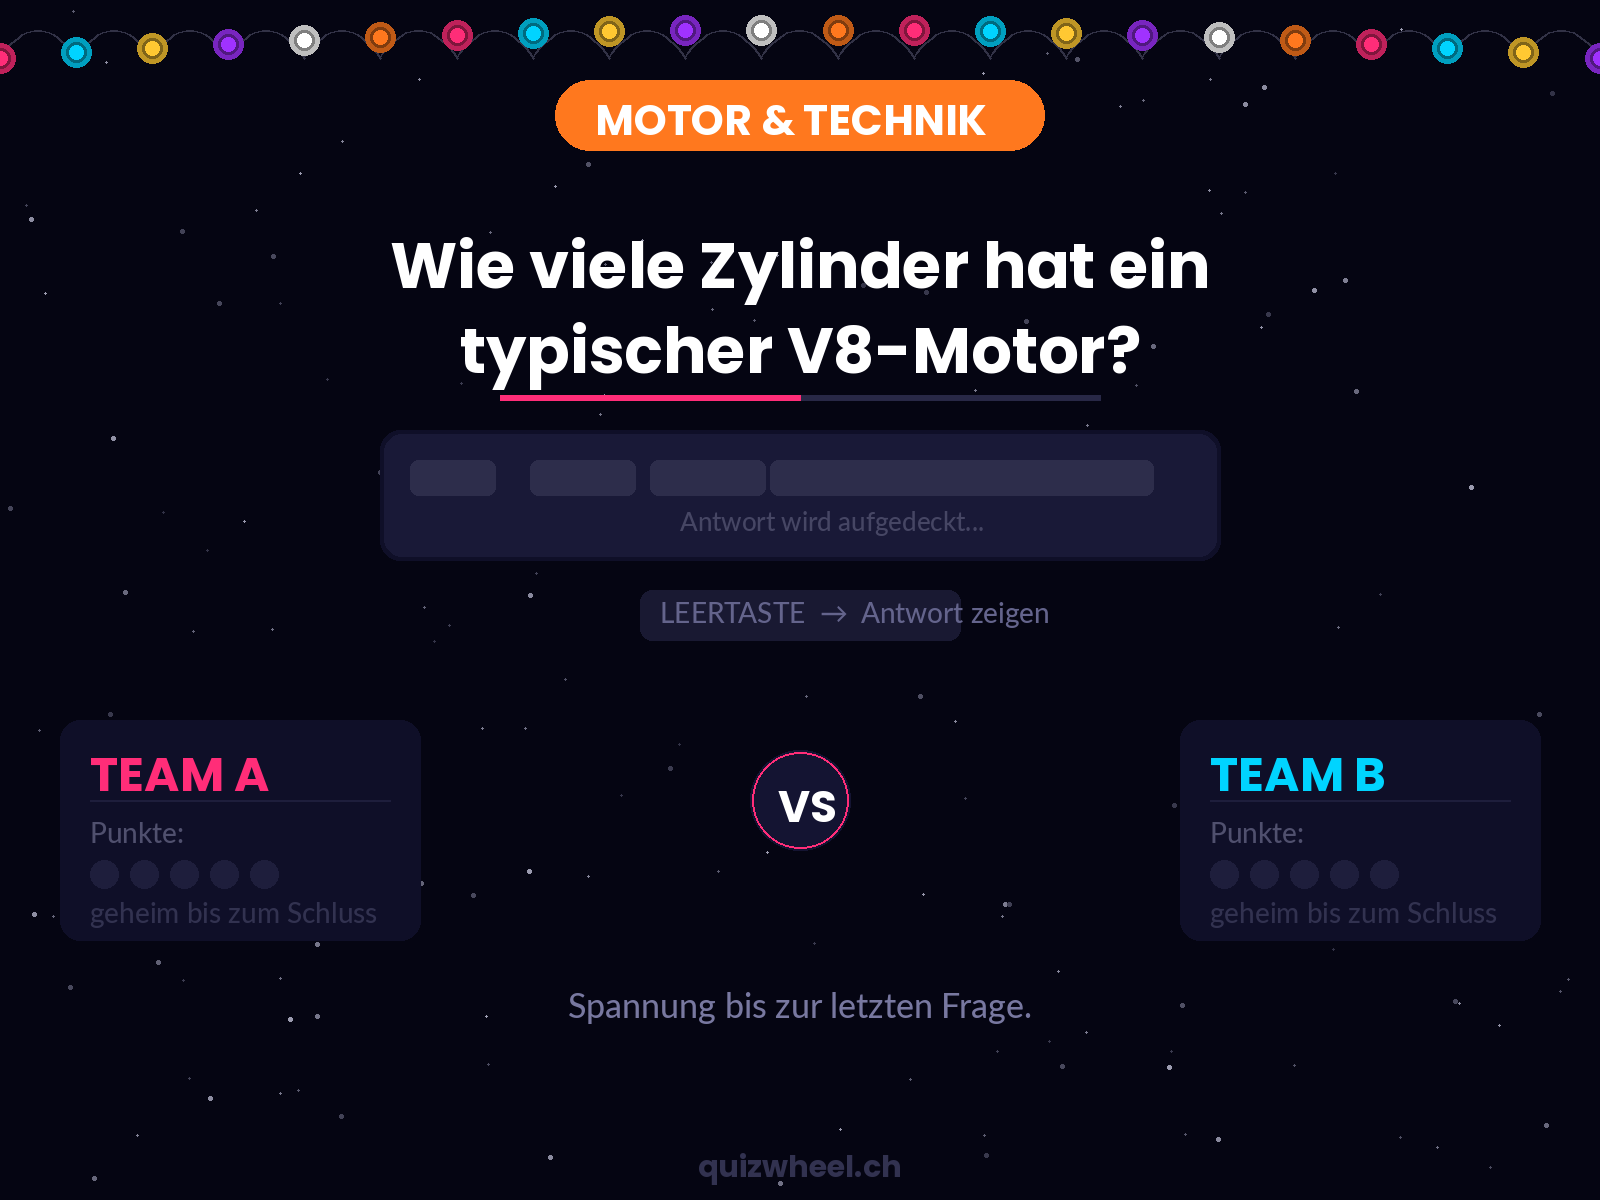
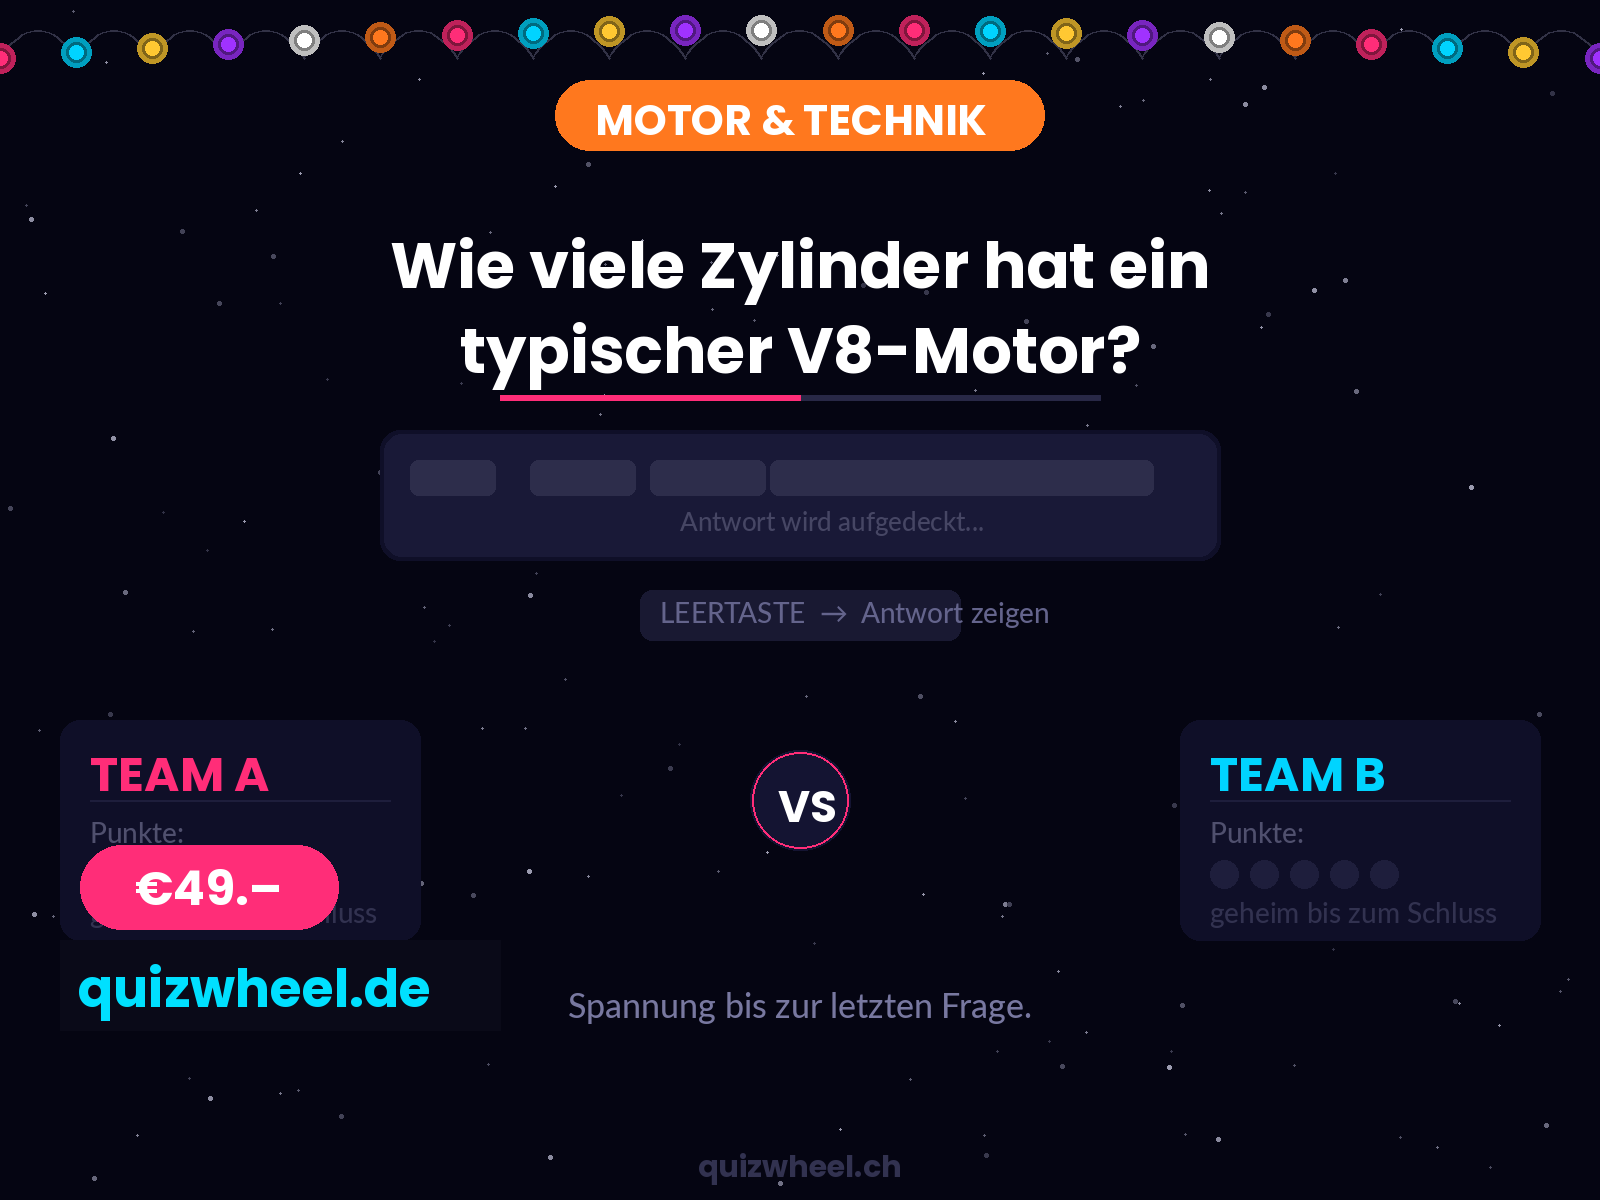
Stand 06.09.2026: Waehrungshinweis (Abrechnung in Euro), Free-Version, Mockups, og-image, robots.txt, .gitignore, package.json

Changed region(s): [[0.0312, 0.6783, 0.2812, 0.8633]]

diff --git a/QuizWheel_Free.html b/QuizWheel_Free.html
@@ -2828,27 +2828,59 @@ function restartQuiz() {
 }
 
 function shareQuizWheel(btn) {
-  const title  = (!_isDemo && setupData.quizTitle) ? setupData.quizTitle : null;
-  const text   = title
+  const title = (!_isDemo && setupData.quizTitle) ? setupData.quizTitle : null;
+  const text  = title
     ? `Wir haben heute «${title}» mit QuizWheel gespielt 🎡 — macht euren Event zur Spielshow: quizwheel.ch`
     : `Wir haben heute QuizWheel eingesetzt 🎡 — macht euren Event zur Spielshow: quizwheel.ch`;
-  const url    = 'https://www.quizwheel.ch';
+  const url  = 'https://www.quizwheel.ch';
+  const full = text + '\n' + url;
 
+  // Toggle: bereits offen → schliessen
+  const existing = document.getElementById('share-dropdown');
+  if (existing) { existing.remove(); return; }
+
+  const rect = btn.getBoundingClientRect();
+  const dd = document.createElement('div');
+  dd.id = 'share-dropdown';
+  dd.style.cssText = 'position:fixed;bottom:' + (window.innerHeight - rect.top + 8) + 'px;left:' + (rect.left + rect.width / 2) + 'px;transform:translateX(-50%);background:#0f0f26;border:1px solid #252550;border-radius:12px;overflow:hidden;z-index:10000;min-width:210px;box-shadow:0 8px 32px rgba(0,0,0,.7)';
+
+  const options = [];
   if (navigator.share) {
-    navigator.share({ title: 'QuizWheel 🎡', text, url }).catch(() => {});
-    return;
+    options.push({ icon: '📱', label: 'Teilen (System)', fn: () => navigator.share({ title: 'QuizWheel 🎡', text, url }).catch(() => {}) });
   }
-  // Fallback: in Zwischenablage kopieren
-  navigator.clipboard.writeText(text + '\n' + url).then(() => {
-    const orig = btn.innerHTML;
-    btn.innerHTML = '✓ &nbsp; Link kopiert!';
-    btn.style.color = '#00C853';
-    btn.style.borderColor = '#00C853';
-    setTimeout(() => { btn.innerHTML = orig; btn.style.color = ''; btn.style.borderColor = ''; }, 2500);
-  }).catch(() => {
-    // Letzter Fallback: WhatsApp öffnen
-    window.open('https://wa.me/?text=' + encodeURIComponent(text + '\n' + url), '_blank');
+  options.push(
+    { icon: '✉', label: 'E-Mail',        fn: () => window.open('mailto:?subject=' + encodeURIComponent('QuizWheel 🎡') + '&body=' + encodeURIComponent(full)) },
+    { icon: '💬', label: 'WhatsApp',      fn: () => window.open('https://wa.me/?text=' + encodeURIComponent(full), '_blank') },
+    { icon: '💼', label: 'LinkedIn',      fn: () => window.open('https://www.linkedin.com/sharing/share-offsite/?url=' + encodeURIComponent(url) + '&summary=' + encodeURIComponent(text), '_blank') },
+    { icon: '📋', label: 'Link kopieren', fn: () => {
+      navigator.clipboard.writeText(full).then(() => {
+        const orig = btn.innerHTML;
+        btn.innerHTML = '✓ &nbsp; Kopiert!';
+        btn.style.color = '#00C853';
+        setTimeout(() => { btn.innerHTML = orig; btn.style.color = ''; }, 2200);
+      }).catch(() => {});
+    }}
+  );
+
+  options.forEach(function(opt, i) {
+    const item = document.createElement('button');
+    item.style.cssText = 'display:flex;align-items:center;gap:12px;width:100%;padding:11px 18px;background:none;border:none;' + (i < options.length - 1 ? 'border-bottom:1px solid #1a1a3e;' : '') + 'color:#ccc;font-size:14px;font-family:inherit;cursor:pointer;text-align:left;transition:background .12s';
+    item.innerHTML = '<span style="font-size:18px;line-height:1">' + opt.icon + '</span><span>' + opt.label + '</span>';
+    item.onmouseenter = function() { item.style.background = 'rgba(255,255,255,.07)'; };
+    item.onmouseleave = function() { item.style.background = 'none'; };
+    item.onclick = function(e) { e.stopPropagation(); dd.remove(); opt.fn(); };
+    dd.appendChild(item);
   });
+
+  document.body.appendChild(dd);
+
+  setTimeout(function() {
+    document.addEventListener('click', function close() {
+      const d = document.getElementById('share-dropdown');
+      if (d) d.remove();
+      document.removeEventListener('click', close);
+    }, { once: true });
+  }, 0);
 }
 
 // ════════════════════════════════════════════════════════════

diff --git a/index.html b/index.html
@@ -887,7 +887,7 @@
       <div class="price-badge">EVENT-PAKET</div>
       <div class="price-name">Vollversion</div>
       <div class="price-amount"><sup>€</sup>49</div>
-      <div class="price-period">einmalig · keine Abos, keine Limits</div>
+      <div class="price-period">einmalig · Abrechnung in Euro · keine Abos, keine Limits</div>
       <ul class="price-features">
         <li>Alles aus Kostenlos</li>
         <li>✦ Dein Logo + automatische CI-Farben</li>
